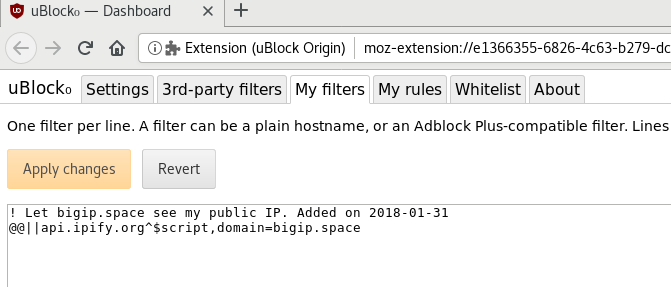
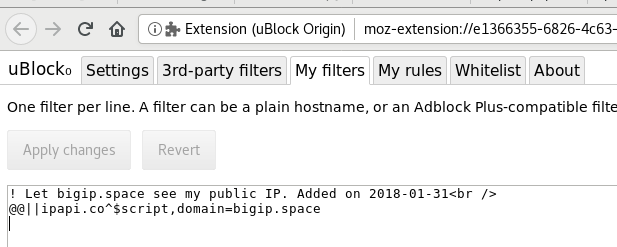
use ipapi instead of ipify

diff --git a/bigip.space/index.html b/bigip.space/index.html
@@ -34,15 +34,15 @@
     details.innerHTML = detailsText;
   }
 
-  function ipifyScriptBlocked() {
-    setText({"ip": "Sorry!"})
+  function ipScriptBlocked() {
+    setText({"ip": "Sorry!"});
     var errorText = "An ad/script blocker has blocked the ability to view your public IP.<br />\
 That's cool, but if you want to use this site as it was intended, you'll need \
-to let <b>bigip.space</b> call scripts from <b>api.ipify.org</b>.\
+to let <b>bigip.space</b> call scripts from <b>ipapi.co</b>.\
 <br /><br />\
 <em>Using uBlock Origin? <a href=ublock-example.html>See an example.</a></em>\
-"
-    details.innerHTML = errorText
+";
+    details.innerHTML = errorText;
   }
 
   function copyIP(input) {
@@ -72,8 +72,8 @@ to let <b>bigip.space</b> call scripts from <b>api.ipify.org</b>.\
   }
 </script>
 <script type="application/javascript"
-  src="https://api.ipify.org?format=jsonp&amp;callback=setText"
-  onerror=ipifyScriptBlocked()>
+  src="https://ipapi.co/jsonp/?callback=setText"
+  onerror=ipScriptBlocked()>
 </script>
 </body>
 </html>

diff --git a/bigip.space/ublock-example.html b/bigip.space/ublock-example.html
@@ -18,10 +18,10 @@
 <p>
 <em>
   ! Let bigip.space see my public IP. Added on 2018-01-31<br />
-  @@||api.ipify.org^$script,domain=bigip.space
+  @@||ipapi.co^$script,domain=bigip.space
 </em>
 <p>
-This lets <b>only this domain</b> access the ipify.org script needed to grab your
+This lets <b>only this domain</b> access this external API to grab your
 public IP address. The line with the ! is a comment.
 <p>
   Here's what it looks like:<br />